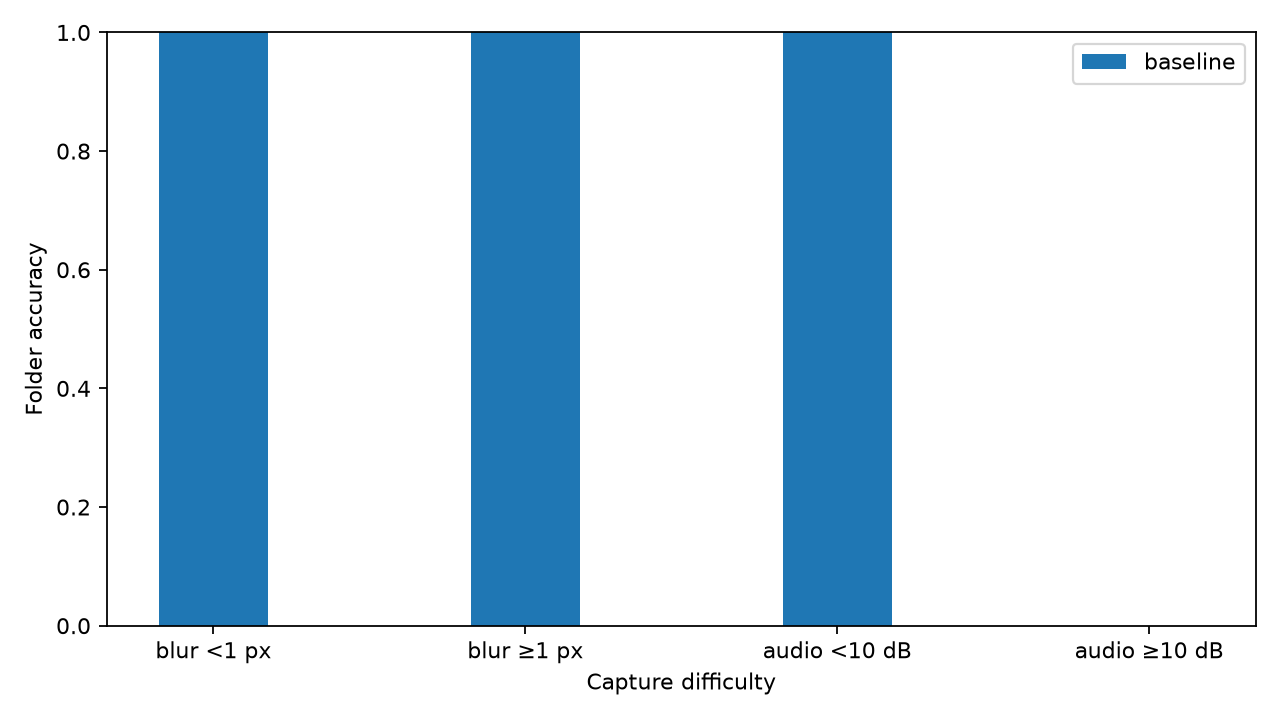
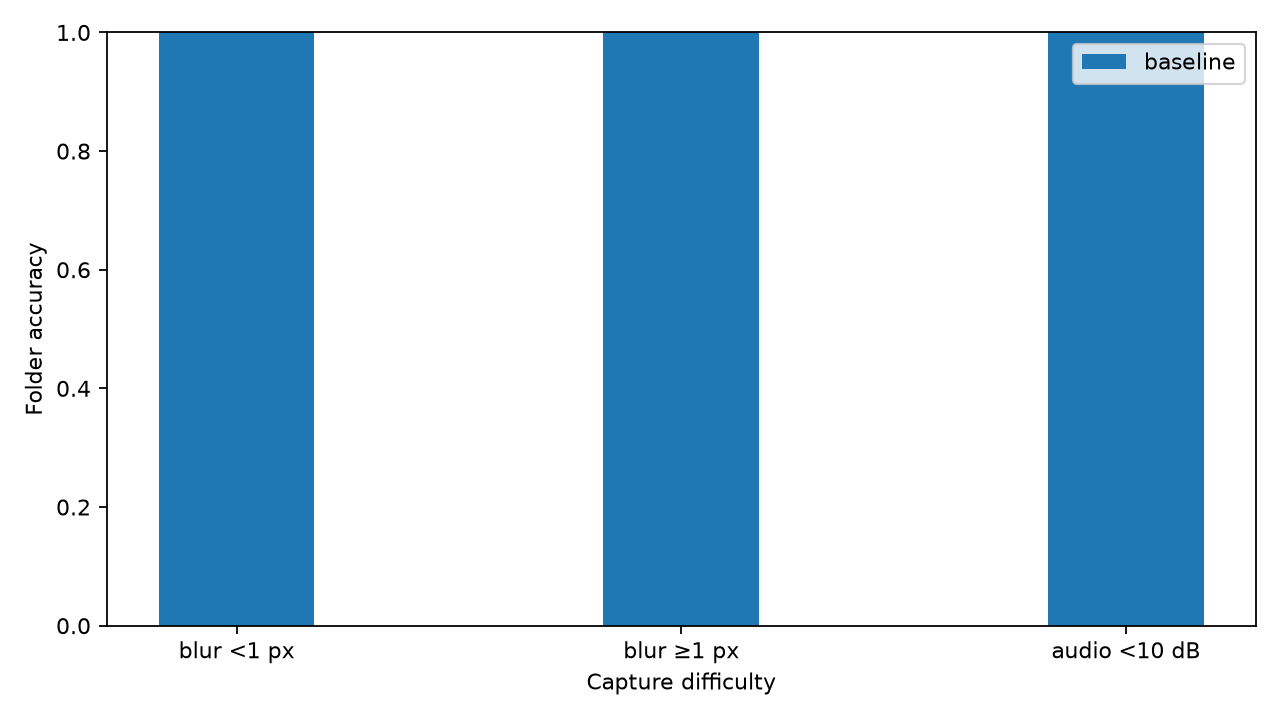
Document private eval workflow and clarify chart bins

diff --git a/eval/run_eval.py b/eval/run_eval.py
@@ -108,12 +108,13 @@ def _chart(rows: list[dict], output: Path) -> None:
         buckets[(row["method"], bucket)].append(row["score"]["folder_correct"])
     if not buckets:
         return
-    labels = ["blur <1 px", "blur ≥1 px", "audio <10 dB", "audio ≥10 dB"]
+    labels = [label for label in ("blur <1 px", "blur ≥1 px", "audio <10 dB", "audio ≥10 dB")
+              if any((method, label) in buckets for method, _ in buckets)]
     methods = sorted({key[0] for key in buckets})
     fig, ax = plt.subplots(figsize=(8, 4.5))
     width = 0.35
     for i, method in enumerate(methods):
-        vals = [statistics.mean(buckets[(method, label)]) if buckets[(method, label)] else 0
+        vals = [statistics.mean(buckets[(method, label)]) if buckets[(method, label)] else float("nan")
                 for label in labels]
         ax.bar([x + i * width for x in range(len(labels))], vals, width, label=method)
     ax.set_xticks([x + width * (len(methods) - 1) / 2 for x in range(len(labels))], labels)

diff --git a/eval/README.md b/eval/README.md
@@ -1,0 +1,17 @@
+# Evaluation workflow
+
+From the repository root:
+
+```bash
+python -m eval.build_heldout --vault demo_vault --voice
+python -m eval.run_eval
+python -m eval.run_eval --system --agent-verify
+```
+
+Set `VAULT_PATH` to a **private vault copy** for the actual held-out run and omit `--vault`. The builder removes selected source notes from `eval/work/vault`, preserves their link targets, and writes the truth to `eval/cases/cases.jsonl`. With `--voice`, every fourth case uses Gemini TTS; the other media types render locally. Voice generation needs a Gemini API key and network access. The baseline and system runs need the same key.
+
+`eval/run_eval.py` resumes completed case/method pairs and reruns cases if their media or truth changes. Use `--rerun` after changing a prompt or model. It defaults to baseline only, so it works while the pipeline is under development. Results contain aggregate metrics and a chart in `eval/results/`; raw per-case rows are ignored by git.
+
+For real captures, place media under ignored `eval/real/` and create a manually checked JSONL truth file. Each row needs `case_id`, `title`, `folder`, `links`, `media_kind`, `media_path`, and `difficulty`. `media_path` points to the capture. Run it with `python -m eval.run_eval --cases eval/real/cases.jsonl --vault eval/work/vault --results eval/results/real`. Do not commit the media, truth file, vault copy, or raw results. Report the real-capture sample size separately from rendered cases.
+
+The synthetic `demo_vault` is a smoke test, not evidence that the system beats the baseline. The four available demo notes yield four link-safe held-out cases; use a larger private vault and unrehearsed real captures for the judging comparison.
